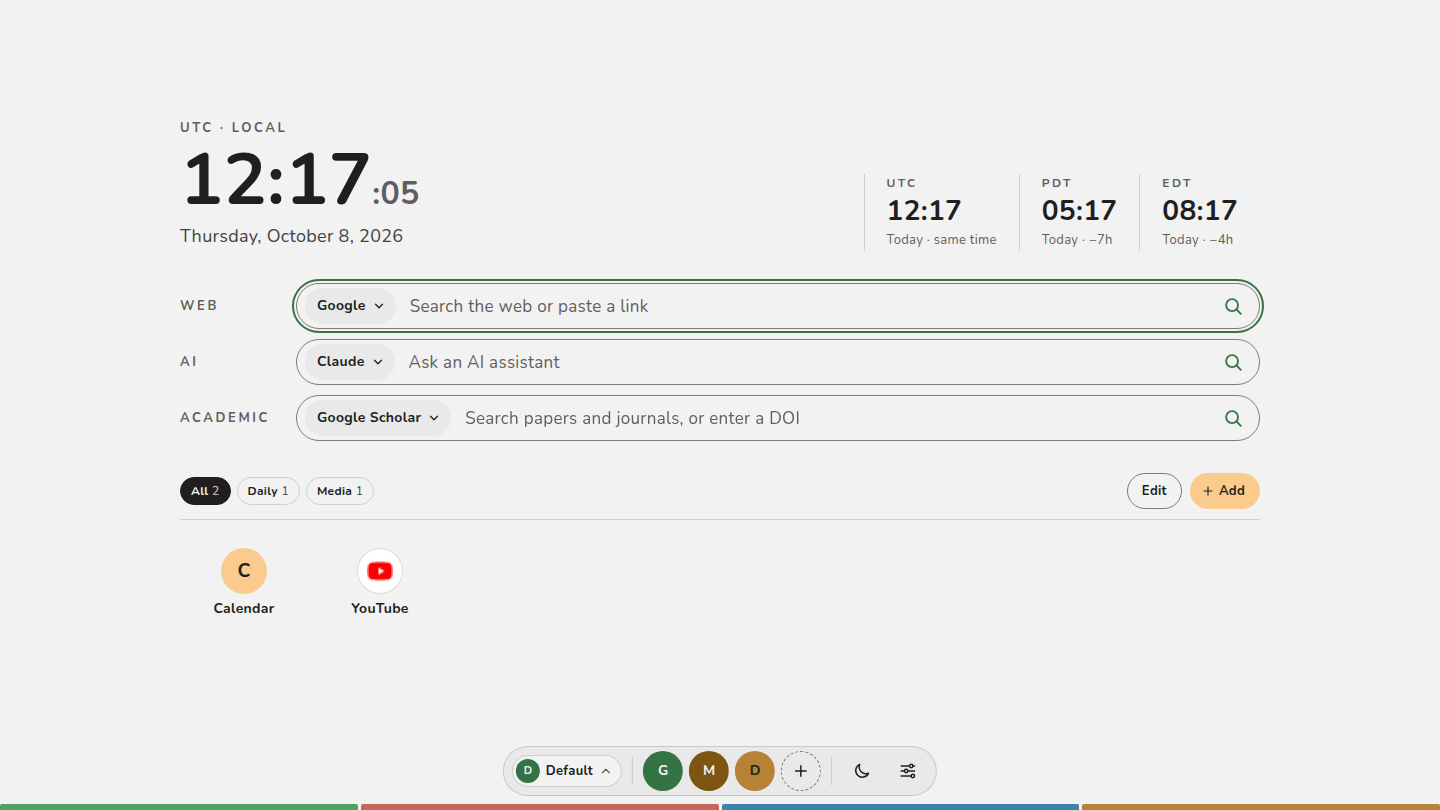
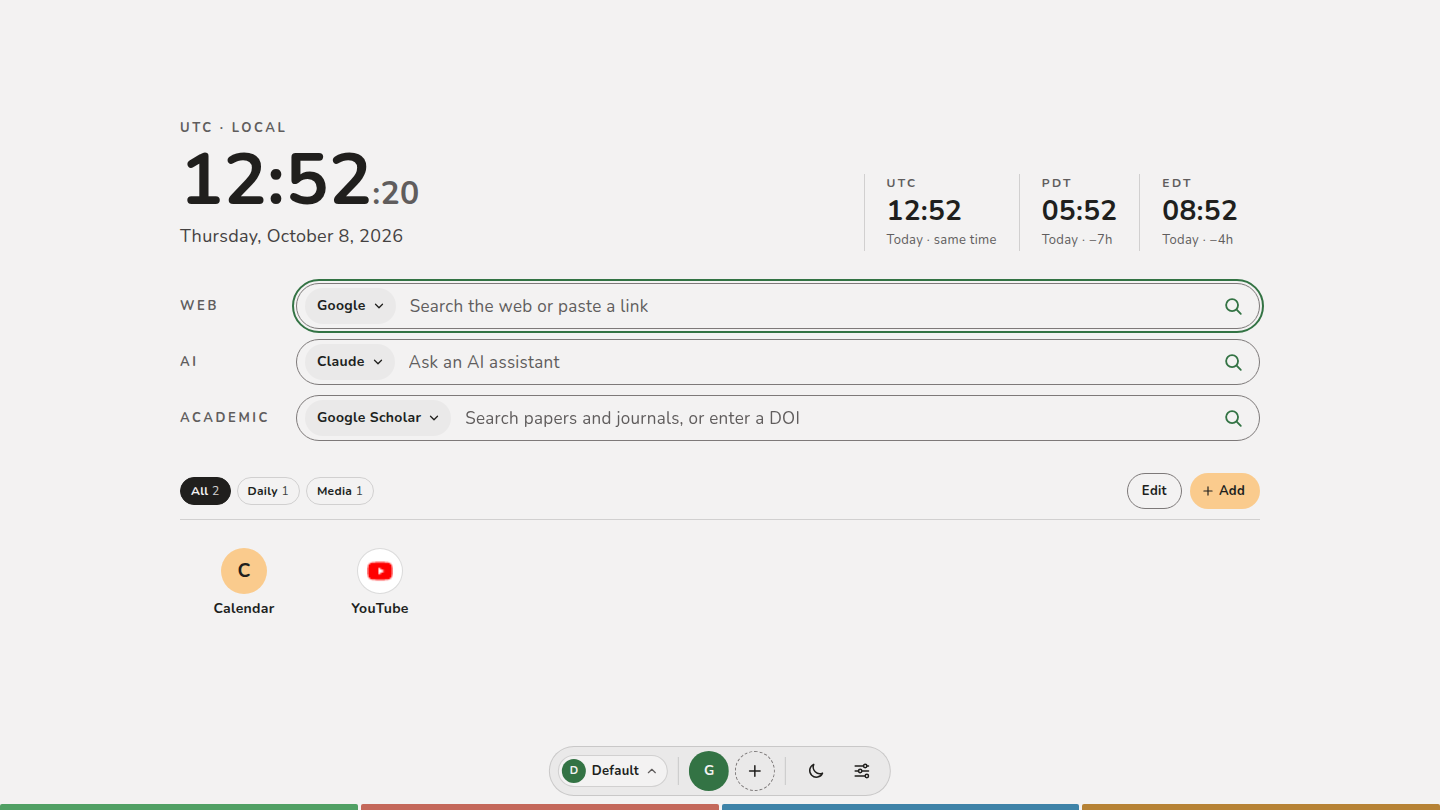
Confirm before saving changes to items shown on all profiles; start with only the Google launcher; release v1.11.0
Claude-Session: https://claude.ai/code/session_01UtG6CrQZPfdTie2Z3118Jb

diff --git a/tests/core.test.js b/tests/core.test.js
@@ -1,7 +1,7 @@
 import assert from 'node:assert/strict';
 import { test } from 'node:test';
 import {
-  DEFAULT_PROFILE_ID, FORMATS, SWATCHES, clone, colorIcon, defaultProfiles, joinShared, keepSharedFrom, letterOf, nextProfileName, normalizeIcon, normalizeProfiles, normalizeShared, profileIcon, splitShared, stripShared, siteIcon, profileOfSettingsKey, profileSettingsKey, clockLabel, colorOf, iconTone, clockParts, countItems, firstGraphemes, zoneAbbreviation, zoneFromAbbreviation, defaultSettings, detectFormat, historyMatches, isImageDataUrl, isValidEngineUrl, mergeSettings, moveItem,
+  DEFAULT_PROFILE_ID, FORMATS, SWATCHES, changedSharedItems, clone, sharedEditPrompt, colorIcon, defaultProfiles, joinShared, keepSharedFrom, letterOf, nextProfileName, normalizeIcon, normalizeProfiles, normalizeShared, profileIcon, splitShared, stripShared, siteIcon, profileOfSettingsKey, profileSettingsKey, clockLabel, colorOf, iconTone, clockParts, countItems, firstGraphemes, zoneAbbreviation, zoneFromAbbreviation, defaultSettings, detectFormat, historyMatches, isImageDataUrl, isValidEngineUrl, mergeSettings, moveItem,
   normalizeDoi, normalizeHex, normalizeHttpUrl, normalizeSettings, parseBackup, readableOn, recordHistory, relativeZone, routeQuery, serialize
 } from '../src/core.js';
 
@@ -373,7 +373,7 @@ test('icons of every kind survive every export format', () => {
   settings.shortcuts[2].icon = { kind: 'image', color: 'gold', text: '', url: 'https://example.com/logo.png' };
   settings.shortcuts[3].icon = { kind: 'color', color: '#112233', letter: false, text: '' };
   settings.launchers[0].icon = { kind: 'site', color: 'green', text: 'G', url: 'https://github.com/' };
-  settings.launchers[1].icon = { kind: 'emoji', text: '🧑🔬📚' };
+  settings.launchers.push({ id: 'ln-2', name: 'Lab', icon: { kind: 'emoji', text: '🧑🔬📚' }, links: [{ name: 'Lab', url: 'https://lab.example/' }] });
   for (const format of Object.keys(FORMATS)) {
     const text = serialize(settings, format);
     assert.deepEqual(normalizeSettings(parseBackup(text, detectFormat(`x.${FORMATS[format].ext}`, text))).settings, settings, format);
@@ -497,9 +497,27 @@ test('v8 gives the dark theme #333333 unless a later save chose the theme color'
 const sharedSample = () => {
   const settings = defaultSettings();
   settings.shortcuts[1].shared = true;
-  settings.launchers[2].shared = true;
+  settings.launchers[0].shared = true;
   return settings;
 };
+
+test('changedSharedItems names shared items whose content or flag changed, not removed or local ones', () => {
+  const prev = sharedSample();
+  assert.deepEqual(changedSharedItems(prev, clone(prev)), []);
+  const next = clone(prev);
+  next.shortcuts[0].name = 'Local edit';
+  next.launchers[0].links.push({ name: 'Maps', url: 'https://maps.google.com/' });
+  delete next.shortcuts[1].shared;
+  assert.deepEqual(changedSharedItems(prev, next), ['YouTube', 'Google']);
+  const removed = clone(prev);
+  removed.shortcuts.splice(1, 1);
+  assert.deepEqual(changedSharedItems(prev, removed), []);
+  assert.equal(sharedEditPrompt(['YouTube']), '"YouTube" shows on all profiles. Save the changes for every profile?');
+});
+
+test('a fresh install has only the Google launcher', () => {
+  assert.deepEqual(defaultSettings().launchers.map((l) => l.name), ['Google']);
+});
 
 test('normalizeSettings keeps the shared flag on shortcuts and launchers only when true', () => {
   const { settings } = normalizeSettings({ ...defaultSettings(), shortcuts: [{ ...defaultSettings().shortcuts[0], shared: true }, { ...defaultSettings().shortcuts[1], shared: 'yes' }] });
@@ -512,10 +530,10 @@ test('splitShared leaves a stub in the profile and moves the content to the shar
   const settings = sharedSample();
   const { profile, shared } = splitShared(settings);
   assert.deepEqual(profile.shortcuts[1], { id: 'sc-2', shared: true });
-  assert.deepEqual(profile.launchers[2], { id: 'ln-3', shared: true });
+  assert.deepEqual(profile.launchers[0], { id: 'ln-1', shared: true });
   assert.equal(profile.shortcuts.length, settings.shortcuts.length, 'order is kept');
   assert.deepEqual(shared.shortcuts, [settings.shortcuts[1]]);
-  assert.deepEqual(shared.launchers, [settings.launchers[2]]);
+  assert.deepEqual(shared.launchers, [settings.launchers[0]]);
   assert.equal(settings.shortcuts[1].name, 'YouTube', 'the input is not changed');
 });
 
@@ -607,7 +625,7 @@ test('imported files never change what is shared: stripShared, merge and replace
   assert.ok(stripShared(file).shortcuts.every((s) => !('shared' in s)));
   const merged = mergeSettings(current, stripShared(file));
   assert.equal(merged.shortcuts.find((s) => s.id === 'sc-2').shared, true, 'a replaced shortcut stays shared');
-  assert.equal(merged.launchers.find((l) => l.id === 'ln-3').shared, true);
+  assert.equal(merged.launchers.find((l) => l.id === 'ln-1').shared, true);
   const replacement = stripShared(defaultSettings());
   replacement.shortcuts = [replacement.shortcuts[0]];
   const replaced = keepSharedFrom(replacement, current);

diff --git a/src/settings.js b/src/settings.js
@@ -1,7 +1,7 @@
 // Settings dialog. Edits stay in a draft until Save; appearance changes preview live and revert on Discard or close.
 import {
   ACCENTS, BACKGROUND_IMAGE_LIMIT, BLOCKS, FORMATS, PROFILE_NAME_MAX, SEARCH_BOXES,
-  ZONE_ABBREVIATION_LIST, blankLauncher, clockLabel, clone, createId, hostOf, profileIcon, isValidEngineUrl, isValidTimeZone, moveItem, normalizeHttpUrl, serialize, zoneFromAbbreviation
+  ZONE_ABBREVIATION_LIST, blankLauncher, changedSharedItems, clockLabel, clone, createId, hostOf, sharedEditPrompt, profileIcon, isValidEngineUrl, isValidTimeZone, moveItem, normalizeHttpUrl, serialize, zoneFromAbbreviation
 } from './core.js';
 import { applyAppearance, isDark } from './appearance.js';
 import { h, icon, readImageFile, segmented, showModal } from './dom.js';
@@ -560,6 +560,9 @@ export function openSettings({ tab = 'Appearance', launcherId = null, addLaunche
         if (problems()) return;
         // Launcher links typed without a scheme are stored as full https URLs.
         draft.launchers.forEach((g) => { g.links = g.links.map((l) => ({ name: l.name.trim(), url: normalizeHttpUrl(l.url).url })); g.name = g.name.trim(); });
+        // Changes to items shown on all profiles reach every profile, so ask first (removals asked when clicked).
+        const sharedNames = changedSharedItems(ui.saved, draft);
+        if (sharedNames.length && !window.confirm(sharedEditPrompt(sharedNames))) return;
         update(draft);
         ui.saved = clone(store.settings);
         draft = clone(store.settings);

diff --git a/src/core.js b/src/core.js
@@ -78,9 +78,7 @@ const DEFAULT_SHORTCUTS = [
 ];
 
 const DEFAULT_LAUNCHERS = [
-  ['Google', 'G', 'green', [['Google', 'www.google.com']]],
-  ['Gmail', 'M', 'brown', [['Gmail', 'mail.google.com']]],
-  ['Google Drive', 'D', 'gold', [['Google Drive', 'drive.google.com']]]
+  ['Google', 'G', 'green', [['Google', 'www.google.com']]]
 ];
 
 let idCounter = 0;
@@ -834,6 +832,26 @@ export function joinShared(rawSettings, rawShared) {
     base[kind] = list;
   }
   return base;
+}
+
+// Names of items shown on all profiles that `next` changes (content or the shared flag) compared with `prev`.
+// Removed items are left out: deleting one asks on its own.
+export function changedSharedItems(prev, next) {
+  const names = [];
+  for (const kind of SHARED_KINDS) {
+    const after = new Map((next?.[kind] || []).map((item) => [item.id, item]));
+    for (const item of prev?.[kind] || []) {
+      if (item.shared !== true || !after.has(item.id)) continue;
+      if (JSON.stringify(item) !== JSON.stringify(after.get(item.id))) names.push(item.name);
+    }
+  }
+  return names;
+}
+
+// The question asked before saving changes to items shown on all profiles.
+export function sharedEditPrompt(names) {
+  const list = names.map((n) => `"${n}"`).join(', ');
+  return `${list} ${names.length === 1 ? 'shows' : 'show'} on all profiles. Save the changes for every profile?`;
 }
 
 // Settings with every shared flag removed (an imported file never changes what is shared).

diff --git a/src/shortcuts.js b/src/shortcuts.js
@@ -1,5 +1,5 @@
 // Shortcut grid: category filter, paging, quick-edit popover, drag reordering, and edit mode with keyboard reordering.
-import { categoriesOf, moveItem, normalizeHttpUrl } from './core.js';
+import { categoriesOf, changedSharedItems, moveItem, normalizeHttpUrl, sharedEditPrompt } from './core.js';
 import { grip, h, icon } from './dom.js';
 import { store, update } from './state.js';
 import { openShortcutEditor } from './shortcut-editor.js';
@@ -216,6 +216,11 @@ function popover(item, alignRight) {
   save.addEventListener('click', () => {
     const check = validate();
     if (save.disabled) return;
+    if (item.shared) {
+      const next = { ...item, name: draft.name.trim(), url: check.url, category: draft.category, icon: { ...item.icon, color: draft.icon.color } };
+      const names = changedSharedItems({ shortcuts: [item] }, { shortcuts: [next] });
+      if (names.length && !window.confirm(sharedEditPrompt(names))) return;
+    }
     update((settings) => {
       const target = settings.shortcuts.find((s) => s.id === item.id);
       if (target) Object.assign(target, { name: draft.name.trim(), url: check.url, category: draft.category, icon: { ...target.icon, color: draft.icon.color } });

diff --git a/src/shortcut-editor.js b/src/shortcut-editor.js
@@ -1,6 +1,6 @@
 // Full shortcut editor dialog (add or edit): name, URL, category, whether it shows on all profiles. The icon is
 // changed by clicking it in the preview, which opens the icon picker.
-import { categoriesOf, createId, hostOf, normalizeHttpUrl, siteIcon } from './core.js';
+import { categoriesOf, changedSharedItems, createId, hostOf, normalizeHttpUrl, sharedEditPrompt, siteIcon } from './core.js';
 import { h, icon, showModal } from './dom.js';
 import { openIconPicker } from './icon-picker.js';
 import { store, update } from './state.js';
@@ -113,6 +113,11 @@ export function openShortcutEditor(id, { category = '', shortcuts, commit } = {}
           category: draft.category.trim()
         };
         if (!next.shared) delete next.shared;
+        // From the page this saves at once, so ask here; inside Settings its own Save asks.
+        if (!inSettings && existing) {
+          const names = changedSharedItems({ shortcuts: [existing] }, { shortcuts: [next] });
+          if (names.length && !window.confirm(sharedEditPrompt(names))) return;
+        }
         apply((items) => {
           const index = items.findIndex((s) => s.id === next.id);
           if (index >= 0) items[index] = next;

diff --git a/README.md b/README.md
@@ -1,7 +1,7 @@
 # Start Page — Chrome New Tab Extension
 
 <p>
-  <img alt="Version" src="https://img.shields.io/badge/version-v1.10.2-blue">
+  <img alt="Version" src="https://img.shields.io/badge/version-v1.11.0-blue">
   <img alt="License: MIT" src="https://img.shields.io/badge/license-MIT-green">
 </p>
 
@@ -9,7 +9,7 @@ A Chrome extension (Manifest V3) that replaces the new tab page with a calm, loc
 
 <img src="docs/screenshot.png" alt="Start Page new tab screenshot" width="720">
 
-*The new tab page with default settings. A fresh install starts with Calendar and YouTube shortcuts and Google, Gmail and Google Drive launchers.*
+*The new tab page with default settings. A fresh install starts with Calendar and YouTube shortcuts and a Google launcher.*
 
 ## Features
 
@@ -19,7 +19,7 @@ A Chrome extension (Manifest V3) that replaces the new tab page with a calm, loc
 - **Shortcuts** — optional categories with filter chips (the category row, with its Edit and Add buttons, can be turned off in Settings → Layout; the shortcuts then move up into its place), paging (rows × per row), drag any tile to reorder, a quick-edit popover on each tile (with delete), a full editor (name, address, category, icon, and whether it shows on all profiles), an Edit mode with remove buttons and arrow-key reordering, and a Shortcuts tab in Settings that lists every shortcut to reorder, edit (in the same editor) or remove.
 - **Launcher dock** — groups of links, shown with website icons, that preview on hover or focus and pin open on click. A launcher can show on all profiles. If a picture icon fails to load, a letter shows instead.
 - **Profiles** — separate sets of settings (appearance, search engines, clocks, shortcuts, launchers, layout), for example Work and Home. Switch or add one from the profile button at the left of the dock; Settings → Profiles renames, changes each profile's icon, deletes, adds a blank profile or duplicates the one in use. Export and import work on the profile in use; search history is shared.
-- **Show on all profiles** — a shortcut or launcher can be marked "Show on all profiles" in its editor. It then appears on every profile, edits to it apply everywhere, and deleting it removes it everywhere; each profile keeps its own order. Turning it off keeps the item in the profile you are in only.
+- **Show on all profiles** — a shortcut or launcher can be marked "Show on all profiles" in its editor. It then appears on every profile, edits to it apply everywhere, and deleting it removes it everywhere. Saving a change to it or deleting it asks for confirmation first; each profile keeps its own order. Turning it off keeps the item in the profile you are in only.
 - **Icons** — every icon (shortcut, launcher, profile) is changed by clicking the icon itself, in Settings or in the shortcut editor. One picker offers a site's logo, an image from a web address, an uploaded image (scaled down to 128 px and stored in this browser), an emoji, or a solid color with a letter or without one. Profiles can also have no icon.
 - **Appearance** — light, dark or system theme; green, brown or ink accent; solid, gradient or image background, with separate background colors for the light and dark themes (dark defaults to #333333).
 - **Colors** — every color picker (accent, background, icons) shows two base colors and a + button; the + opens the other preset colors and a field for any #HEX color.

diff --git a/ARCHITECTURE.md b/ARCHITECTURE.md
@@ -61,7 +61,7 @@ Icons before schema v9 were a mode string plus separate `image`, `color`, `iconM
 A shortcut or launcher with `shared: true` appears on every profile. Its content is stored once in `startPage:shared` (`{ shortcuts, launchers }`); each profile's own settings keep only a stub `{ id, shared: true }` at the item's place in that profile's order. The page always works with the joined view, so the rest of the code sees ordinary items with a `shared` flag.
 
 - `splitShared(settings)` → `{ profile, shared }` is applied on every save; `joinShared(raw, shared)` is applied on every load, before `normalizeSettings`. A stub whose item is gone is dropped (so deleting a shared item removes it everywhere), a shared item without a stub is added at the end (so a new one appears in every profile), and a local item that is the same one (same id, or the same name and address; for launchers the same name) gives way, so a shared item is never lost to normalization.
-- Editing a shared item edits the one copy. Turning "Show on all profiles" off removes it from the shared store, so it stays in the profile where it was turned off and disappears from the others. Deleting asks for confirmation.
+- Editing a shared item edits the one copy. Turning "Show on all profiles" off removes it from the shared store, so it stays in the profile where it was turned off and disappears from the others. Deleting asks for confirmation, and so does saving any change to one (its content or turning sharing off): `changedSharedItems` in `core.js` compares the saved and new lists and names the shared items that changed, and `sharedEditPrompt` words the question. The page's quick edit and shortcut editor ask before they save; inside Settings the dialog's Save asks once for everything, so the nested shortcut editor doesn't ask again.
 - A new profile (blank or copy) shows the shared items. `storage.js` writes the shared store only when it changed. Another tab's change to it reloads the profile in use unless a dialog is open.
 - Existing saves need no migration: nothing is shared until the user chooses it.
 

diff --git a/CHANGELOG.md b/CHANGELOG.md
@@ -2,6 +2,14 @@
 
 Each version matches the `version` in `manifest.json` and a `vX.Y.Z` git tag.
 
+## v1.11.0 — 2026-10-08
+
+### Added
+- Saving a change to a shortcut or launcher shown on all profiles now asks for confirmation first, naming the items, since the change reaches every profile. This covers the quick edit on the page, the shortcut editor, and Settings (asked once when you press Save). Deleting one already asked.
+
+### Changed
+- A fresh install (and a new blank profile) now starts with one launcher, Google. Saved settings are not changed.
+
 ## v1.10.2 — 2026-10-08
 
 ### Fixed
